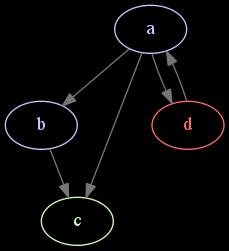
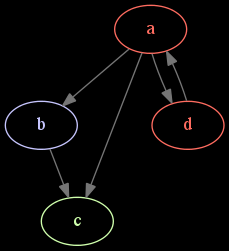
Complete path in circular dependencies is now printed (and marked as red in image graphs). Fixes #4

Changed region(s): [[0.4891, 0.0, 0.8253, 0.1673], [0.5197, 0.1673, 0.7948, 0.2231], [0.6419, 0.0837, 0.6725, 0.1394]]

diff --git a/lib/analysis/circular.js b/lib/analysis/circular.js
@@ -1,6 +1,17 @@
 'use strict';
 
 /**
+ * Get path to the circular dependency.
+ * @param  {Object} unresolved
+ * @return {Array}
+ */
+function getPath(unresolved) {
+	return Object.keys(unresolved).filter(function (module) {
+		return unresolved[module];
+	});
+}
+
+/**
  * A circular dependency is occurring when we see a software package
  * more than once, unless that software package has all its dependencies resolved.
  * @param  {String} id
@@ -16,7 +27,7 @@ function resolver(id, modules, circular, resolved, unresolved) {
 		modules[id].forEach(function (dependency) {
 			if (!resolved[dependency]) {
 				if (unresolved[dependency]) {
-					circular[id] = dependency;
+					circular.push(getPath(unresolved));
 					return;
 				}
 				resolver(dependency, modules, circular, resolved, unresolved);
@@ -34,7 +45,7 @@ function resolver(id, modules, circular, resolved, unresolved) {
  * @return {Object}
  */
 module.exports = function (modules) {
-	var circular = {},
+	var circular = [],
 		resolved = {},
 		unresolved = {};
 
@@ -42,5 +53,27 @@ module.exports = function (modules) {
 		resolver(id, modules, circular, resolved, unresolved);
 	});
 
-	return circular;
+	return {
+		/**
+		 * Expose the circular dependency array.
+		 * @return {Array}
+		 */
+		getArray: function () {
+			return circular;
+		},
+
+		/**
+		 * Check if the given module is part of a circular dependency.
+		 * @return {Boolean}
+		 */
+		isCyclic: function (id) {
+			var cyclic = false;
+			circular.forEach(function (path) {
+				if (path.indexOf(id) >= 0) {
+					cyclic = true;
+				}
+			});
+			return cyclic;
+		}
+	};
 };

diff --git a/lib/print.js b/lib/print.js
@@ -64,16 +64,23 @@ module.exports.summary = function (modules, opts) {
  * @param  {Object} circular
  * @param  {Object} opts
  */
-module.exports.circular = function (modules, opts) {
+module.exports.circular = function (circular, opts) {
+	var arr = circular.getArray();
 	if (opts.output === 'json') {
-		return process.stdout.write(toJSON(modules));
+		return process.stdout.write(toJSON(arr));
 	}
 
-	if (!Object.keys(modules).length) {
+	if (!arr.length) {
 		console.log(c('No circular references found', 'green', opts.colors));
 	} else {
-		Object.keys(modules).forEach(function (id) {
-			console.log(c(id, 'grey', opts.colors) + c(' -> ', 'cyan', opts.colors) + c(modules[id], 'grey', opts.colors));
+		arr.forEach(function (path, idx) {
+			path.forEach(function (module, idx) {
+				if (idx) {
+					process.stdout.write(c(' -> ', 'cyan', opts.colors));
+				}
+				process.stdout.write(c(module, 'grey', opts.colors));
+			});
+			process.stdout.write('\n');
 		});
 	}
 };

diff --git a/lib/graph.js b/lib/graph.js
@@ -57,7 +57,7 @@ module.exports.image = function (modules, opts, callback) {
 		if (opts.colors && modules[id]) {
 			if (!modules[id].length) {
 				noDependencyNode(nodes[id], colors.noDependencies);
-			} else if (circular[id]) {
+			} else if (circular.isCyclic(id)) {
 				nodeColor(nodes[id], (colors.circular || '#ff6c60'));
 			}
 		}
@@ -97,7 +97,7 @@ module.exports.image = function (modules, opts, callback) {
  */
 module.exports.dot = function (modules) {
 	var nodes = {};
-	
+
 	checkGraphvizInstalled();
 
 	Object.keys(modules).forEach(function (id) {

diff --git a/test/amd.js b/test/amd.js
@@ -32,7 +32,7 @@ describe('module format (AMD)', function () {
 	});
 
 	it('should find circular dependencies', function () {
-		madge([__dirname + '/files/amd/circular'], {format: 'amd'}).circular().should.eql({ c: 'a' });
+		madge([__dirname + '/files/amd/circular'], {format: 'amd'}).circular().getArray().should.eql([ ['a', 'c'], ['e', 'f', 'g'] ]);
 	});
 
 	it('should find modules that depends on another', function () {

diff --git a/test/cjs.js b/test/cjs.js
@@ -38,7 +38,7 @@ describe('module format (CommonJS)', function () {
 	});
 
 	it('should find circular dependencies', function () {
-		madge([__dirname + '/files/cjs/circular']).circular().should.eql({ 'c': 'a' });
+		madge([__dirname + '/files/cjs/circular']).circular().getArray().should.eql([ ['a', 'b', 'c'] ]);
 	});
 
 	it('should compile coffeescript on-the-fly', function () {

diff --git a/test/files/amd/circular/e.js b/test/files/amd/circular/e.js
@@ -1,0 +1,3 @@
+define(['f'], function (F) {
+	return 'E';
+});

diff --git a/test/files/amd/circular/f.js b/test/files/amd/circular/f.js
@@ -1,0 +1,3 @@
+define(['g'], function (G) {
+	return 'F';
+});

diff --git a/test/files/amd/circular/g.js b/test/files/amd/circular/g.js
@@ -1,0 +1,3 @@
+define(['e'], function (E) {
+	return 'G';
+});

diff --git a/README.md b/README.md
@@ -132,6 +132,9 @@ Coming soon ..
 
 # Release Notes
 
+## v0.1.0 (September 3, 2012)
+Complete path in circular dependencies is now printed (and marked as red in image graphs).
+
 ## v0.0.5 (August 8, 2012)
 Added support for CoffeeScript. Files with extension .coffee will automatically be compiled on-the-fly.
 
